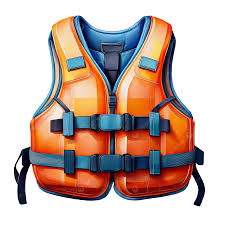
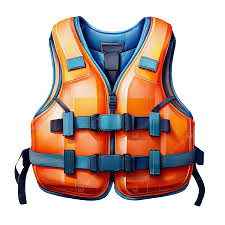
Made some changes

diff --git a/products.html b/products.html
@@ -33,22 +33,91 @@
                 </div>
          </div><!--End of nav-search-bar-->
         </nav>
-        <!--
+        
             <div class="Toy-Packages-Collection">
-                <div class="Toy_Package_Images">
-                    <img src="assets/Collection_Products/Toy Collections/buildingblocks.jpg" alt="Building Blocks">
-                    
-                
-                   <div class="card-content">
+                <!--Product 1-->
+                <div class="Product-Card">
+                    <img src="assets/Box1-4/toy_package.png" width="200" alt="Lego Toy Set">
+                    <h3>Lego Toy Set</h3>
+                        <p>Features main adventures of Lego Cartoon for Kids</p>
+                        <p class="Price-Toy">Ksh 2000</p>
+                        <button class="add-to-cart">
+                            Add to Cart
+                        </button>
+                    </div>
+                <!--Product 2-->
+                <div class="Product-Card">
+                    <img src="assets/Collection_Products/Toy Collections/buildingblocks.png" width="200"alt="Building Blocks">
+
                       <h3>Building Blocks</h3>
-                      <p>Best and widely used by children even under playgroup </p>
+                      <p>Best for children even under playgroup </p>
+                      <p class="Price-Toy">Ksh 1000</p>
                        <button class="add-to-cart">
                         Add to Cart
                           </button>
-                     </div>
+                     
                 </div>
+                <!--Product Page 3-->
+                <div class="Product-Card">
+                    <img src="assets/Collection_Products/Toy Collections/carpolice.png" width="200"alt="Car Police">
+                    <h3>Police Car Toy</h3>
+                    <p >Fun for Kids </p>
+                    <p class="Price-Toy">Ksh 540</p>
+                    <button class="add-to-cart">
+                        Add to Cart
+                    </button>
+                </div>
+
+                    <!--Product 4-->
+                    <div class="Product-Card">
+                        <img src="assets/Collection_Products/Toy Collections/Growsland_Remote.png" alt="Remote Car">
+                        <h3>Growsland Remote Car</h3>
+                        <p>Features autocontrol features</p>
+                        <p class="Price-Toy">Ksh 1500</p>
+                        <button class="add-to-cart">
+                            Add to Cart
+                        </button>
+
+                    </div>
+                        <!--Product 5-->
+                        <div class="Product-Card">
+                            
+                                <img src="assets/Collection_Products/Toy Collections/spidey_remote_car.png"
+                                 width="200"alt="Spidey Remote">
+                                 <h3>Spidey Remote Car</h3>
+                                    <p>Features Spiderman, a very thrilling movie for kids</p>
+                                    <p class="Price-Toy">Ksh 1800</p>
+
+                                    <button class="add-to-cart">
+                                        Add to Cart
+                                    </button>
+                                </div>
+
+                                <!--Product 6-->
+                                <div class="Product-Card">
+                                    <img src="assets/Collection_Products/Toy Collections/wireless_air.png" 
+                                    alt="wireless airplain remote">
+                                    <h3>Wireless Helicopter Remote Control</h3>
+                                    <p> Features wireless pad that controls the helicopter movement</p>
+                                    <p class="Price-Toy">Ksh 2500</p>
+                                    <button class="add-to-cart">
+                                        Add to Cart
+                                    </button>
+                                </div>
+                                <!--Product 7-->
+                                <div class="Product-Card">
+                                    <img src="assets/Collection_Products/Toy Collections/truck.png" 
+                                  width="200"  alt="Truck">
+                                    <h3> Toy Truck</h3>
+                                    <p>For kids</p>
+                                    <p class="Price-Toy">Ksh 1100</p>
+                                    <button class="add-to-cart">
+                                        Add To Cart
+                                    </button>
+                                </div>
+
             </div>
-        -->
+    
    
     </body>
     </html>

diff --git a/product.css b/product.css
@@ -6,7 +6,7 @@
   padding:0;
 }
 body{
-   background: whitesmoke;
+   background: lightgray;
    font-family: "Outfit",sans-serif,;
 }
 .nav-header{
@@ -52,12 +52,26 @@ max-width: 400px;
     margin-right:auto;
     display:flex;
 }
-.Toy_Package_Images{
-width:mini-content;
-padding:20px;
-background:#fff;
-border-radius: 30px;
-box-shadow:0 0 30px rgba(0,0,0,04);
-transition:4s ease;
 
+/* Toy product other collection*/
+.Toy-Packages-Collection{
+  display:flex;
+  justify-content: space-between;
+  padding:20px;
+  overflow-x: auto;
+    scrollbar-width:none;
+}
+/* Individual card */
+.product-card{
+    min-width:250px;
+
+ background:#fff;
+flex-shrink:0;
+    border-radius:10px;
+
+    padding:15px;
+}
+
+.Toy-Packages-Collection::-webkit-scrollbar{
+    display:none;
 }

diff --git a/index.html b/index.html
@@ -96,13 +96,17 @@
 <div class="box-row header-box">
     <div class="box-col">
         <h3>Toy under Ksh3250 </h3>
-        <img src="assets/Box1-4/toy_package.jpg " alt="">
+        <a href="products.html">
+        <img src="assets/Box1-4/toy_package.png " alt="">
+    </a>
         <a href="products.html" target="_blank">Shop More</a>
     </div>
 
      <div class="box-col">
+        
         <h3>Labour Day Campaign</h3>
-        <img src="assets/Box1-4/may_holiday.jpg  " alt="">
+        
+        <img src="assets/Box1-4/may_holiday.png " alt="">
         <a href="products.html">Shop More</a>
     </div>
 <div class="box-col">